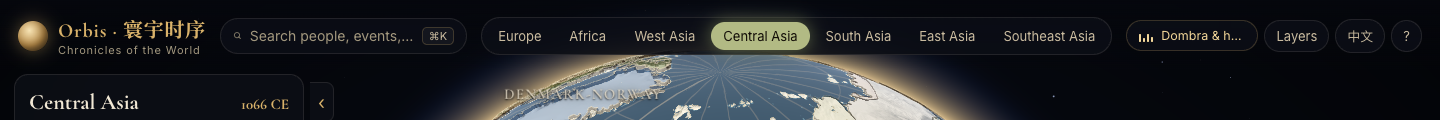
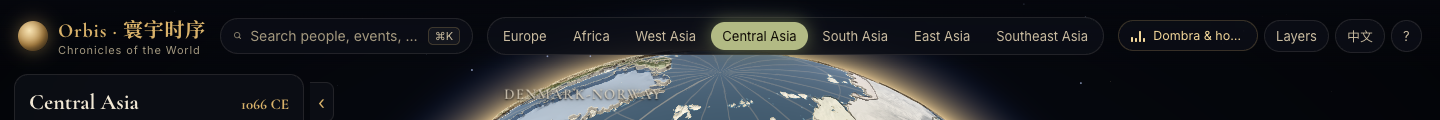
fix: keep the top-bar music label readable at 1280-1500 px
Give the music button a 118 px floor and slim the region chips between
1361 and 1500 px, so short labels such as "Open sea" no longer collapse
to "Ope…" (reported by the #12 review).

diff --git a/src/styles.css b/src/styles.css
@@ -227,7 +227,7 @@ kbd {
 .topbar .brand { flex-shrink: 0; }
 .topbar .controls { min-width: 0; }
 .topbar .controls > * { flex-shrink: 0; }
-.topbar .controls > .music-btn { flex-shrink: 1; min-width: 0; max-width: clamp(130px, 15vw, 260px); }
+.topbar .controls > .music-btn { flex-shrink: 1; min-width: 118px; max-width: clamp(130px, 15vw, 260px); }
 .icon-btn { white-space: nowrap; }
 .eq { display: flex; align-items: flex-end; gap: 2px; height: 12px; }
 .eq i { width: 2px; height: 3px; background: currentColor; border-radius: 1px; }
@@ -404,6 +404,10 @@ kbd {
 .disclaimer { position: absolute; bottom: 132px; left: 50%; transform: translateX(-50%); font-size: 10.5px; color: rgba(222, 208, 180, 0.78); text-shadow: 0 1px 3px #000, 0 0 8px #000; z-index: 5; pointer-events: none; white-space: nowrap; }
 
 /* ---------- responsive ---------- */
+/* Slimmer region chips leave the music label room to read (e.g. “Open sea”, not “Ope…”). */
+@media (max-width: 1500px) and (min-width: 1361px) {
+  .region-chip { padding: 6px 11px; }
+}
 @media (max-width: 1360px) {
   .region-chip { padding: 6px 9px; font-size: 12.5px; }
   .brand-sub { display: none; }
